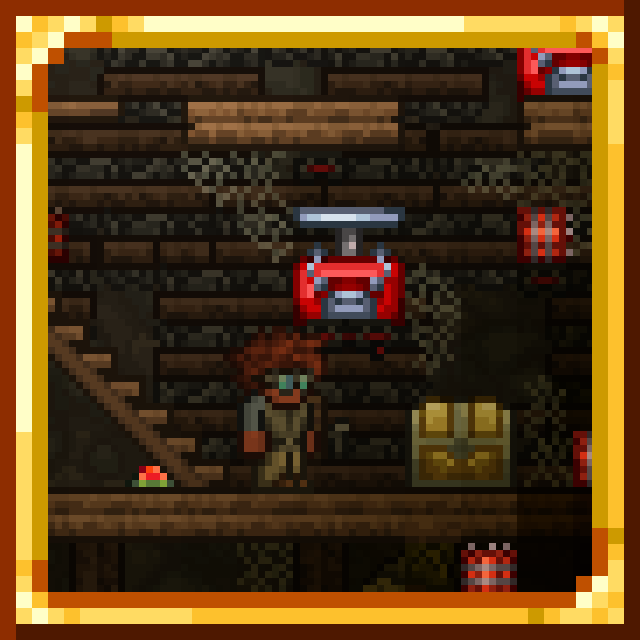
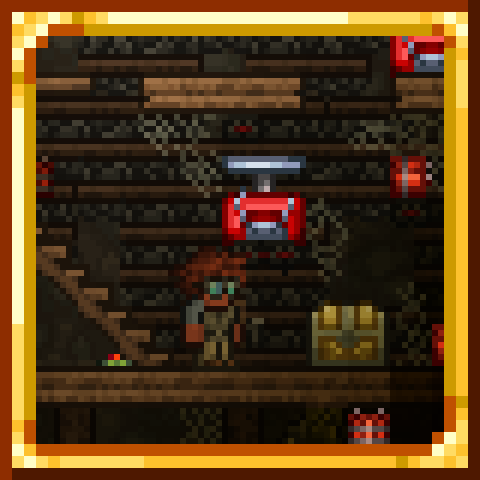
Adding "Mine Sweeper" Item
Finally added that .gitignore file
updated workshop icon to be 480x480
Adding a "Mine Sweeper" item, when used in a world that currently has no mines, it generates the amount specified in the config file.
  When used in a world that currently has mines, it (should) increase the amount of mines by 500, by finding values in the array equal to (-1, -1) or (0, 0), and getting a (completely random this time, not tied to world seed) point to re-generate

diff --git a/Items/MineSweeper.cs b/Items/MineSweeper.cs
@@ -1,0 +1,88 @@
+using RandBombs.Configs;
+using RandBombs.Systems;
+using System.Linq;
+using Terraria;
+using Terraria.DataStructures;
+using Terraria.ID;
+using Terraria.ModLoader;
+
+namespace RandBombs.Items
+{
+    public class MineSweeper : ModItem
+    {
+        public override void SetDefaults()
+        {
+            Item.width = 20;
+            Item.height = 24;
+            Item.useStyle = ItemUseStyleID.HoldUp;
+            Item.autoReuse = false;
+            Item.useTime = 30;
+            Item.useAnimation = 30;
+        }
+
+
+        //TODO: Update this to be less laggy, and remake the code to be more readable. Make a flow chart or smth
+        public override bool? UseItem(Player player)
+        {
+            Main.NewText("Test 1");
+            //make sure this doesn't run more than once
+            if (Main.netMode != NetmodeID.MultiplayerClient)
+            {
+                ref Point16[] BombLocations = ref ModContent.GetInstance<Explosives>().BombLocations; //get the Point16[] of bombs
+                ref bool BombsGenerated = ref ModContent.GetInstance<Explosives>().BombsGenerated; //get whether or not bombs are present in the world
+
+                //check if there are actually any mines
+                if (BombsGenerated)
+                {
+                    int i = 1;
+                    int b = 0;
+                    if (BombLocations.Length < 500) { BombLocations = new Point16[BombLocations.Length + 500]; }
+                    for (int j = 0; j < BombLocations.Length && i < 500; j++)
+                    {
+                        if (BombLocations[j] == Point16.NegativeOne || BombLocations[j] == Point16.Zero)
+                        {
+                            for (int k = 0; k < 500; k++)
+                            {
+                                Point16 point = new(Main.rand.Next(0, Main.maxTilesX), Main.rand.Next(0, Main.maxTilesY));
+
+                                if (BombLocations.Contains(point)) { continue; } //make sure no two values are the same
+                                if (Main.tile[point.ToPoint()].HasTile) { BombLocations[j] = Point16.NegativeOne; continue; }
+                                BombLocations[j] = point;
+                                b++;
+                            }
+                            i++;
+                        }
+                    }
+                    //if (i < 500) 
+                    //{
+                    //    BombLocations = new Point16[BombLocations.Length + 500];
+                    //    Main.NewText("added 500 mine space to the Bomb Point16[] array");
+                    //}
+                    Main.NewText($"Generated {i} more bombs");
+                }
+                else
+                {
+                    BombLocations = new Point16[ModContent.GetInstance<BombConfigs>().NumberOfBombs];
+
+                    for (int i2 = 0; i2 < BombLocations.Length; i2++)
+                    {
+                        Point16 point = new(Main.rand.Next(0, Main.maxTilesX), Main.rand.Next(0, Main.maxTilesY));
+                        if (BombLocations.Contains(point) || !Main.tile[point.ToPoint()].HasTile)
+                        {
+                            BombLocations[i2] = Point16.NegativeOne;
+                        }
+                        else
+                        {
+                            BombLocations[i2] = point;
+                        }
+                    }
+
+                    BombsGenerated = true;
+                    Main.NewText("generated initial mines (may have appeared in builds, be careful)");
+                }
+            }
+
+            return true;
+        }
+    }
+}

diff --git a/Systems/Explosives.cs b/Systems/Explosives.cs
@@ -12,7 +12,7 @@ namespace RandBombs.Systems
 {
     public class Explosives : ModSystem
     {
-        private static bool BombsGenerated;
+        public bool BombsGenerated;
         public Point16[] BombLocations;
 
         public override void PreWorldGen()
@@ -25,20 +25,15 @@ namespace RandBombs.Systems
             BombLocations = new Point16[amountBombs];
             for (int i = 0; i < amountBombs; i++)
             {
-
-                for (int j = 0; j < 500; j++)
+                Point16 point = new(WorldGen.genRand.Next(0, Main.maxTilesX), WorldGen.genRand.Next(0, Main.maxTilesY));
+                if (BombLocations.Contains(point)) //make sure no two values are identical
                 {
-
-                    Point16 point = new(WorldGen.genRand.Next(0, Main.maxTilesX), WorldGen.genRand.Next(0, Main.maxTilesY));
-                    if (BombLocations.Contains(point))
-                    {
-                        continue;
-                    }
-                    else
-                    {
-                        BombLocations[i] = point;
-                        break;
-                    }
+                    BombLocations[i] = Point16.NegativeOne;
+                }
+                else
+                {
+                    BombLocations[i] = point;
+                    break;
                 }
             }
 
@@ -70,6 +65,12 @@ namespace RandBombs.Systems
         {
             BombsGenerated = tag.GetBool("BombsGenerated");
             BombLocations = tag.Get<Point16[]>("BombLocations");
+        }
+
+        public override void ClearWorld()
+        {
+            BombsGenerated = false;
+            BombLocations = Array.Empty<Point16>();
         }
     }
 
